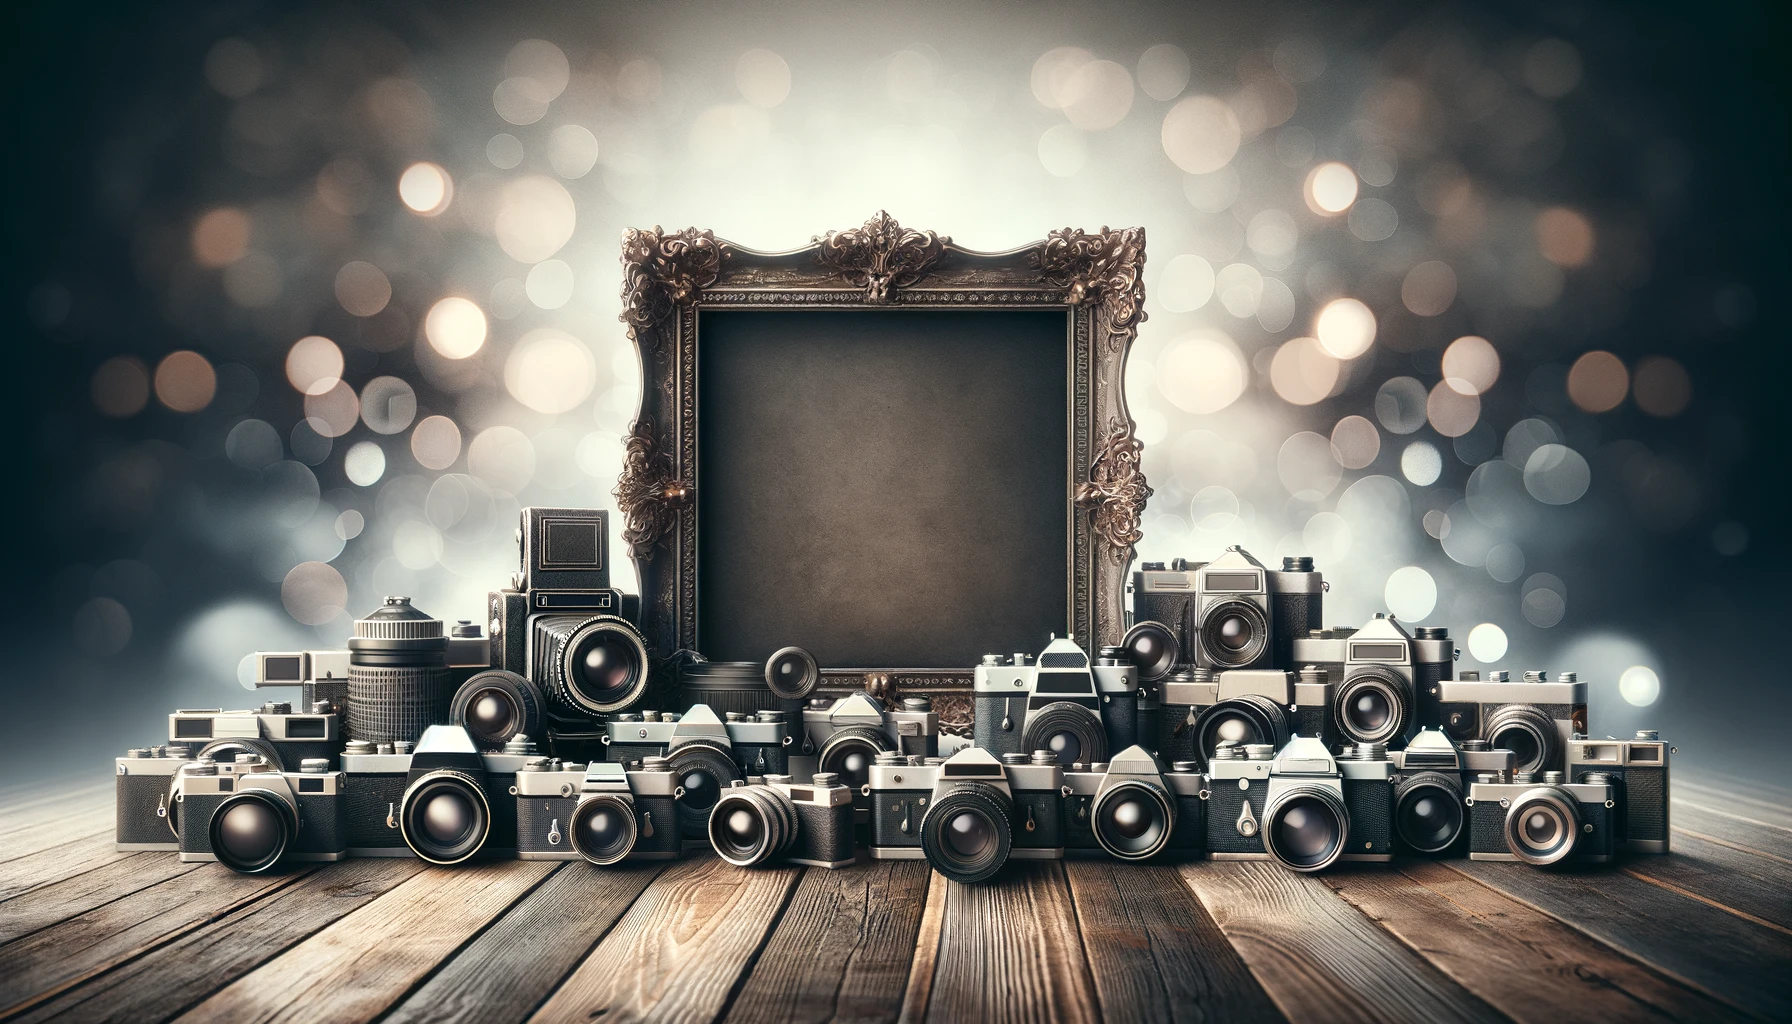
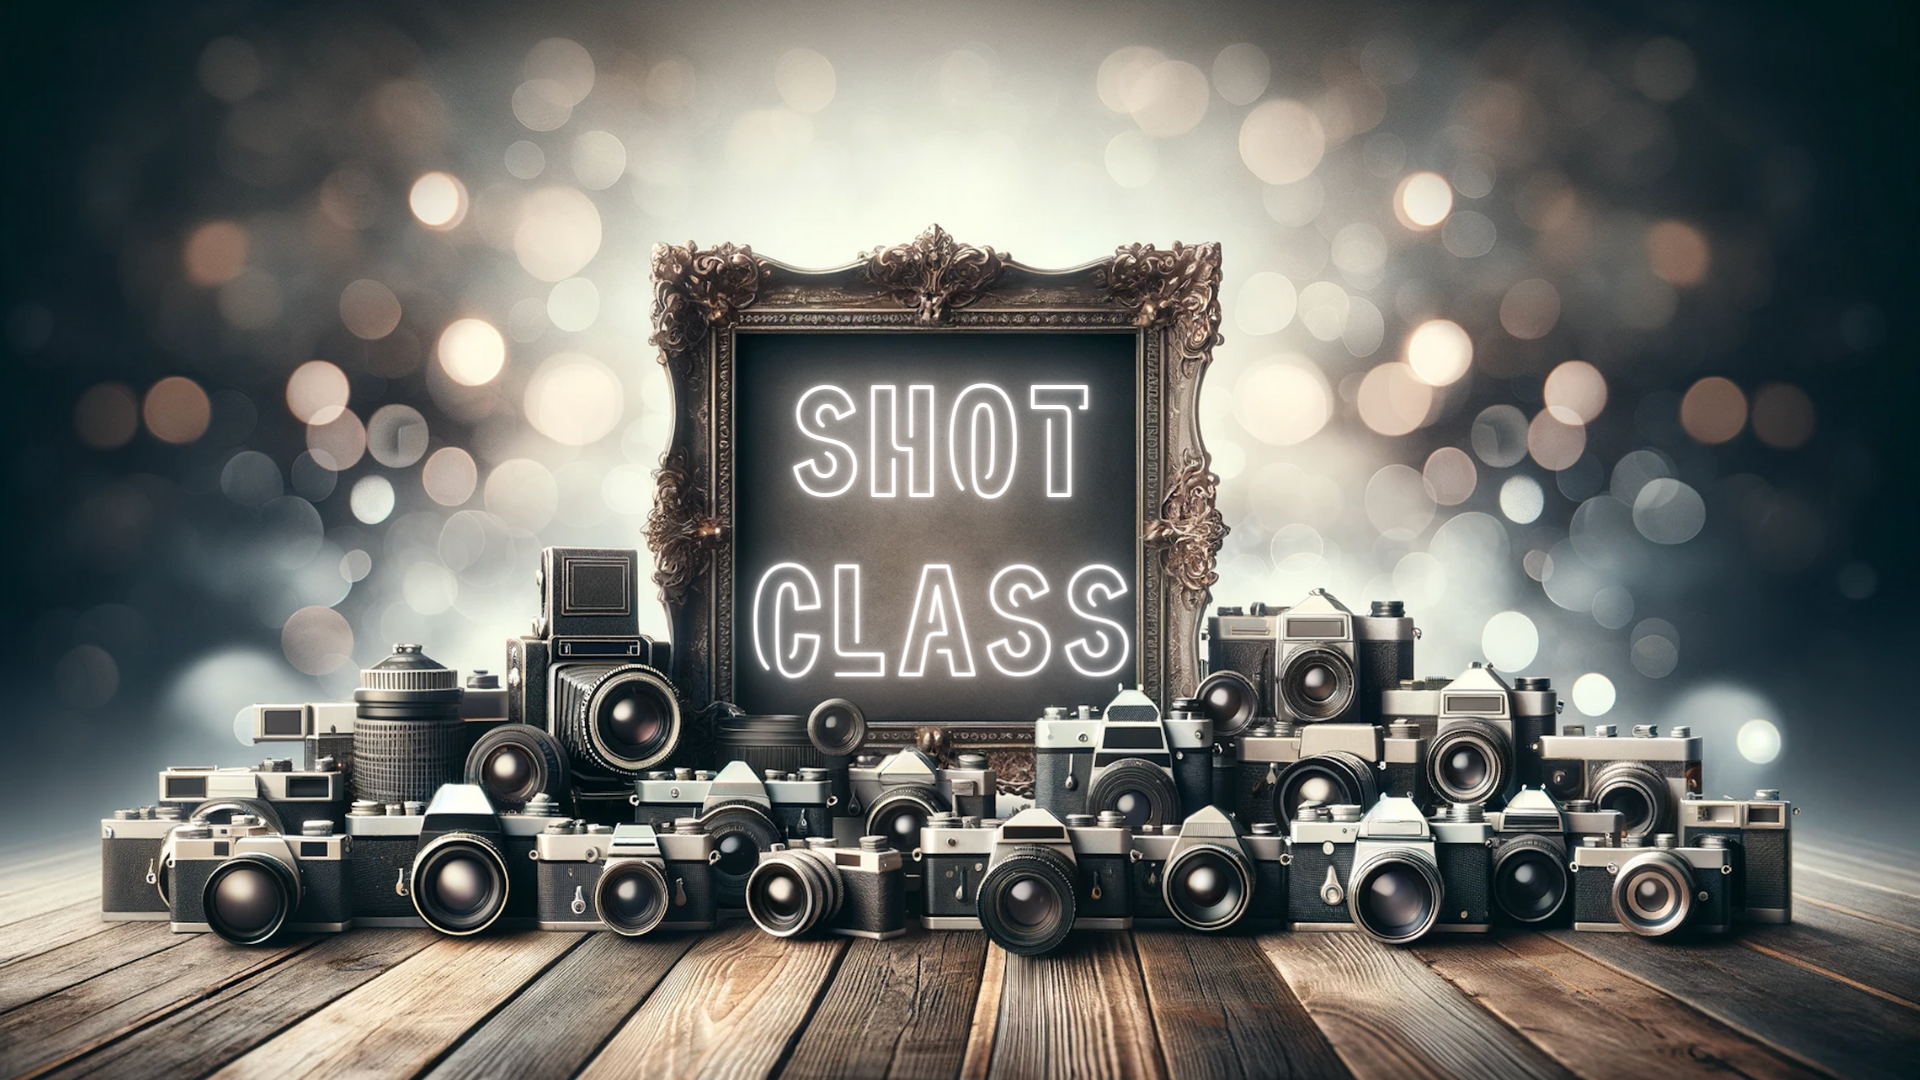
finalized home page

diff --git a/templates/welcome.html b/templates/welcome.html
@@ -2,12 +2,13 @@
 
 {% block content %}
 <body class="body-home">
-<div class="title limelight-regular">
-  <h1>&nbsp;Shot</h1>
-  <h1>Class</h1>
+<div class="description limelight-regular">
+  <p>Interested in making or analyzing films?
+The first step is being familiar with the types of shots you'd find in a script. <br>
+Click the button below to learn how to identify and frame shots in film!
+</p>
 </div>
-
-<div class="start">
+<div class="start limelight-regular">
   <a href="/shot/0">
     <button class="button-86" role="button">Begin Tutorial</button>
   </a>

diff --git a/static/main.css b/static/main.css
@@ -19,11 +19,12 @@ html {
     background-position:center;
 }
 
-.title {
-    top: 30%;
-    left: 37%;
+.description {
+    top: 2%;
+    left: 40%;
     display: block;
     position: absolute;
+    color: white;
 }
 
 #home-title {
@@ -179,7 +180,7 @@ a:hover {
 /* CSS for fancy button */
 .button-86 {
 all: unset;
-width: 275px;
+width: 375px;
 height: 30px;
 font-size: 50px;
 background: transparent;
